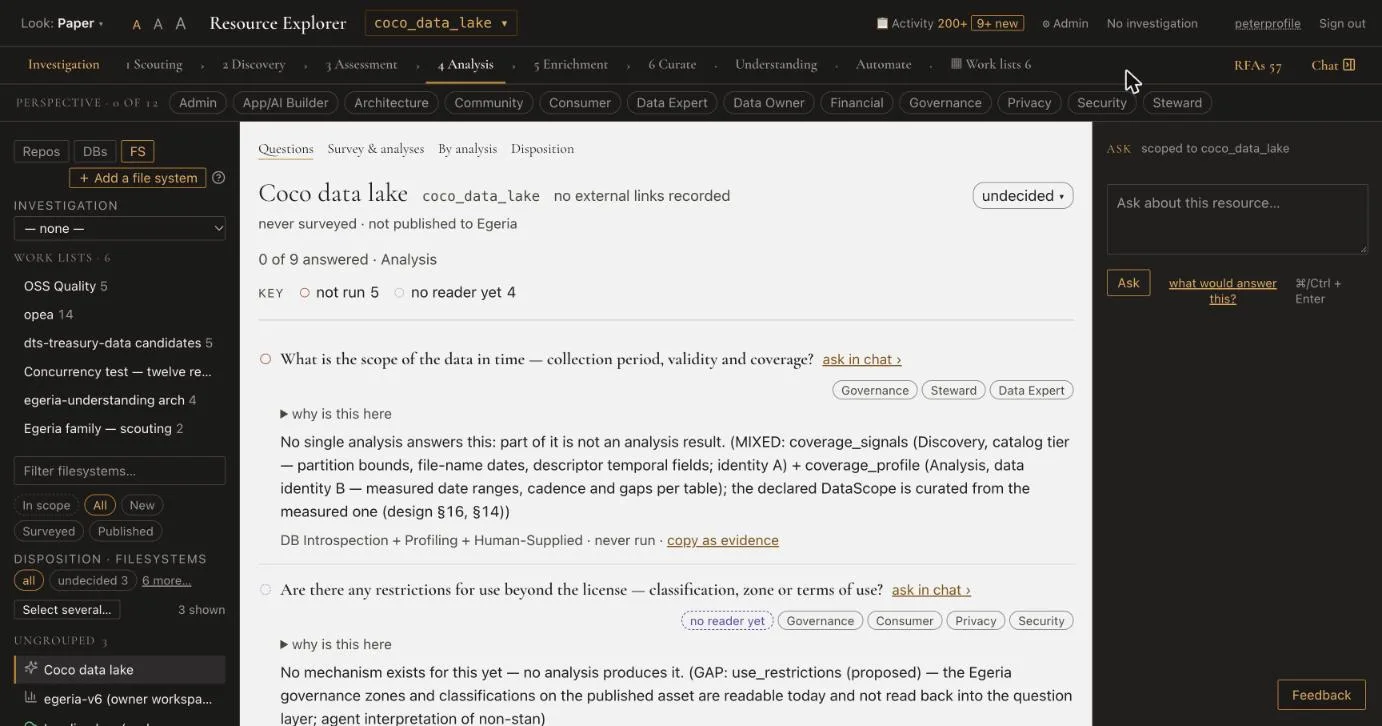
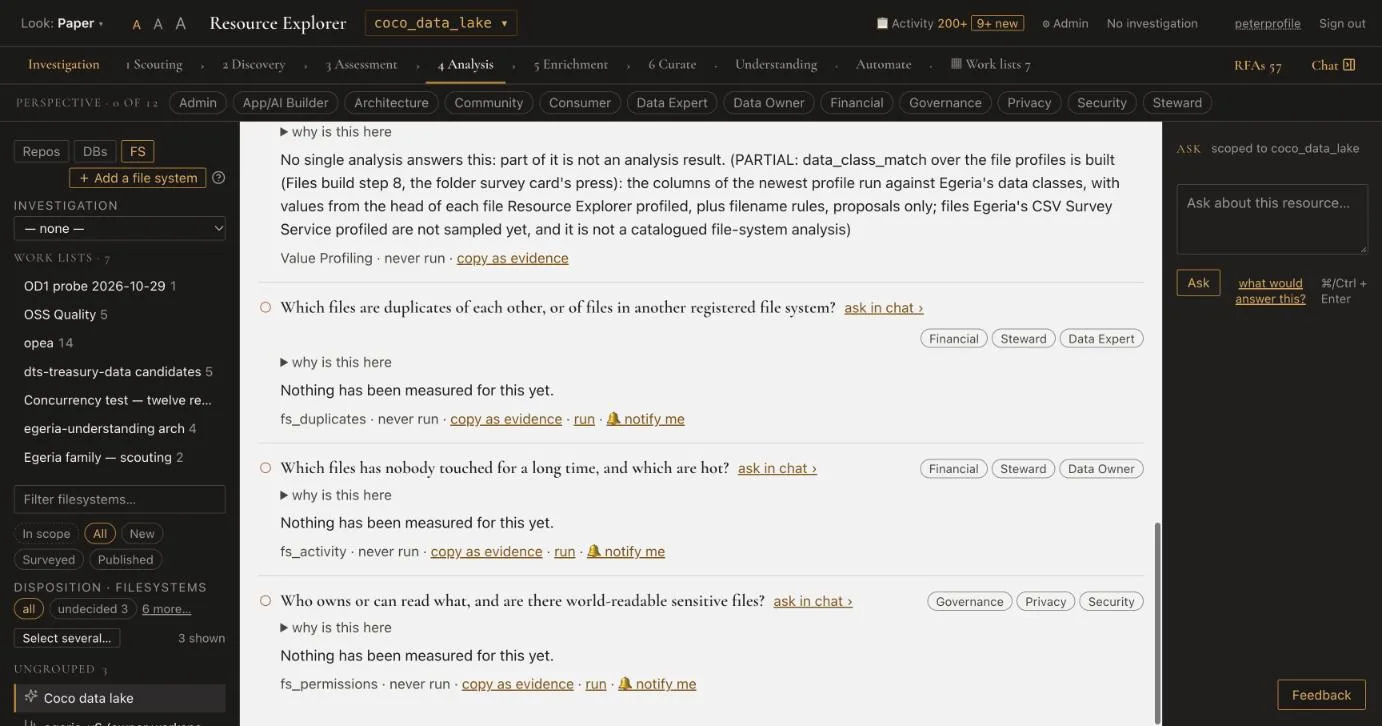
RE tutorial: apply the architect's nine corrections
Walk 3: correct address form (?type=db&resource=<slug>), the declared-measures
section with two new screenshots from the throwaway, chip glyph is the DOM's.
Walk 5: leg 0 date 2026-10-28 and F1 merged (#915), leg 7 walked and the
library rows Publish-disabled (F14), 'writes as' today, DOM glyphs, the
never-run image now shows the Q-0108 fs_permissions row. Walk 2: CVE mark
queued as a defect. Walk 6: OPEN DATA arrived with OD1 (#911).

diff --git a/packages/resource-explorer/docs/tutorial/05-add-your-own-analysis.md b/packages/resource-explorer/docs/tutorial/05-add-your-own-analysis.md
@@ -8,13 +8,13 @@ This walk follows two steps that were added without changing Resource Explorer's
 
 A library step is a package with a step manifest and a declaration: a result kind, measures (each with a unit and an as-of), absence sentences, chat extents, a confidence form and, optionally, an Egeria type. Installing the package registers it as a `trellis.analytics` entry point. The guide's section 7 has the whole table of what can be added.
 
-What the gate found about "no code change" (the architect's reading of `origin/main` at `7b50ba89` on 2026-10-29): no Resource Explorer code names either step. Two pieces of configuration do: a generated entry in `configdata/analysis_catalog.yaml` and a hand-written question row in `configdata/question_catalog.yaml` (Q-0107 and Q-0108). So "no code change" holds for code, and not yet for configuration.
+What the gate found about "no code change" (the architect's reading of `origin/main` at `7b50ba89` on 2026-10-28): no Resource Explorer code names either step. Two pieces of configuration do: a generated entry in `configdata/analysis_catalog.yaml` and a hand-written question row in `configdata/question_catalog.yaml` (Q-0107 and Q-0108). So "no code change" holds for code, and not yet for configuration. The fix, reading installed steps' manifests at read time so the generated entry is no longer committed (finding F1), is merged on `main` (#915). The Explorer these screens were read on was still running `afdac240`, so no screen in this walk shows it.
 
 ## 2. Where it shows up: Survey & analyses, "Derived from the walk"
 
-![The part of the Survey & analyses tab headed "DERIVED FROM THE WALK" for loading_bay. "kept here · sent to Egeria in the walk's own survey report when that walk is published". "File Activity · derived · 2026-10-29" with "● measured · 3 files modified within 7 days; 0 not modified for over 365 days (0 bytes)" and "○ not established · not measured · access times not recorded on this walk" plus an explanation. "File System Change · not run yet", "Duplicate Files · not run yet", "File System Layout Signals · not run yet". "File Permissions · derived · 2026-10-29" with "● measured · 1 owners, 1 groups; 134 of 134 files world-readable, 131 world-writable" and "○ nothing found · no world-readable file has a secret-looking name". Below, "EGERIA'S OWN SURVEYS" and "Survey Folder".](images/05-own-analysis/05-derived-from-the-walk.webp)
+![The part of the Survey & analyses tab headed "DERIVED FROM THE WALK" for loading_bay. "kept here · sent to Egeria in the walk's own survey report when that walk is published". "File Activity · derived · 2026-10-29" with "● measured · 3 files modified within 7 days; 0 not modified for over 365 days (0 bytes)" and "◌ not established · not measured · access times not recorded on this walk" plus an explanation. "File System Change · not run yet", "Duplicate Files · not run yet", "File System Layout Signals · not run yet". "File Permissions · derived · 2026-10-29" with "● measured · 1 owners, 1 groups; 134 of 134 files world-readable, 131 world-writable" and "○ nothing found · no world-readable file has a secret-looking name". Below, "EGERIA'S OWN SURVEYS" and "Survey Folder".](images/05-own-analysis/05-derived-from-the-walk.webp)
 
-*"File Activity · derived · 2026-10-29 · ● measured · 3 files modified within 7 days; 0 not modified for over 365 days (0 bytes)". "○ not established · not measured · access times not recorded on this walk". "File Permissions · derived · 2026-10-29 · ● measured · 1 owners, 1 groups; 134 of 134 files world-readable, 131 world-writable · ○ nothing found · no world-readable file has a secret-looking name". The block's first line: "kept here · sent to Egeria in the walk's own survey report when that walk is published".*
+*"File Activity · derived · 2026-10-29 · ● measured · 3 files modified within 7 days; 0 not modified for over 365 days (0 bytes)". "◌ not established · not measured · access times not recorded on this walk". "File Permissions · derived · 2026-10-29 · ● measured · 1 owners, 1 groups; 134 of 134 files world-readable, 131 world-writable · ○ nothing found · no world-readable file has a secret-looking name". The block's first line: "kept here · sent to Egeria in the walk's own survey report when that walk is published".*
 
 Read the three states side by side. A **measured** line carries a number and its basis. A **nothing found** line says it was measured and there was nothing. A **not established** line carries the step's own sentence for what could not be told: access times were not recorded on that walk, so which files were read cannot be told. Nothing here is a zero for something that was not measured.
 
@@ -22,11 +22,11 @@ The step's rows were stored when a run was pressed on 2026-10-29 (activity entri
 
 ## 3. A step that has never run
 
-![The Analysis stage's Questions tab for "Coco data lake" (coco_data_lake): "never surveyed · not published to Egeria", "0 of 9 answered · Analysis", key "○ not run 5 · ○ no reader yet 4". The first question's source line reads "DB Introspection + Profiling + Human-Supplied · never run · copy as evidence".](images/05-own-analysis/05-never-run-coco-data-lake.webp)
+![The foot of the Analysis stage's Questions tab for "Coco data lake" (coco_data_lake). Three rows each carry an empty circle and "Nothing has been measured for this yet.": "Which files are duplicates of each other, or of files in another registered file system?" (fs_duplicates · never run), "Which files has nobody touched for a long time, and which are hot?" (fs_activity · never run) and "Who owns or can read what, and are there world-readable sensitive files?" (fs_permissions · never run), each with "copy as evidence", "run" and "notify me". The page header reads "never surveyed · not published to Egeria", "0 of 9 answered · Analysis"; the key "○ not run 5 · ◌ no reader yet 4".](images/05-own-analysis/05-never-run-coco-data-lake.webp)
 
-*"0 of 9 answered · Analysis". The key reads "○ not run 5 · ○ no reader yet 4". The source line reads "never run".*
+*The page header reads "never surveyed · not published to Egeria" and "0 of 9 answered · Analysis". The key reads "○ not run 5 · ◌ no reader yet 4". The Q-0108 row reads "Nothing has been measured for this yet." and "fs_permissions · never run".*
 
-On a file system where the step has not run, the screen says "never run", not zero. On 2026-10-29 the architect read the Questions tab row for Q-0108 on `coco_data_lake` as "Nothing has been measured for this yet. fs_permissions · never run" (on `9d40eab4`; not re-read on `afdac240`). The step's own "not measured" sentence is not used for a step that never ran; the screen uses Resource Explorer's generic words instead (finding F7, closed as "RE's state" on 2026-10-29).
+On a file system where the step has not run, the screen says "never run", not zero. The Q-0108 row on `coco_data_lake` reads "Nothing has been measured for this yet." with "fs_permissions · never run" (read on `afdac240`; the architect read the same row on `9d40eab4`). The step's own "not measured" sentence is not used for a step that never ran; the screen uses Resource Explorer's generic words instead (finding F7, closed as "RE's state" on 2026-10-29).
 
 ## 4. Curate has no row for the step
 
@@ -34,7 +34,7 @@ On a file system where the step has not run, the screen says "never run", not ze
 
 *"Nothing to review for file systems yet. Group, tags, ratings and notes above and below apply." "✓ root folder attached · read back 2026-10-25 23:45". "attaches the root folder only".*
 
-For a database a library step has a row in the publish table with "writes as". A file system has no publish table, so the two steps have no row to publish from; the reason the measures wait is the one on the Survey tab ("sent to Egeria in the walk's own survey report when that walk is published"). **Publish** here attaches the root folder only; this walk did not press it.
+For a database a library step has a row in the publish table with "writes as". Today that row reads "generic measure · no native type declared" and its Publish is disabled (walk 3, section 4; findings F11 and F14); the fix is in build. A file system has no publish table, so the two steps have no row to publish from; the reason the measures wait is the one on the Survey tab ("sent to Egeria in the walk's own survey report when that walk is published"). **Publish** here attaches the root folder only; this walk did not press it.
 
 ## 5. Chat
 
@@ -47,6 +47,6 @@ Each item below was read as missing on the gate's screens. Dates are the gate's 
 - **The Questions tab's own figures for a library step** (2026-10-29, on `9d40eab4`): the row reads "fs_activity has no written summary — the figures above are the raw measures." with no figures above it, and "the numbers behind this ›" answers "Unknown analysis". Not re-read on `afdac240`.
 - **A publish row on Curate for a file system's steps, with the reason they wait** (2026-10-29, read above on `afdac240`).
 - **"writes as" on a file system** (2026-10-29): it exists on a database's publish table only.
-- **Publishing a library step on a database** (leg 7 of the gate): not walked. The step `hub_tables` is a proposal and the publish table excludes proposals by design; the owner's choice of a step is pending.
+- **A library step's own row publishing from a database's table** (2026-10-29): leg 7 of the gate was walked on the throwaway. The library rows are Publish-disabled (F14; the fix is in build). The mechanism was proven on RE's own measure instead: commit `0136c584`, annotation `d3065d8d` read back by its id (4 tables, as of 2026-10-25, ResourceMeasureAnnotation, createdBy peterprofile). A library step's own row: not yet.
 - **A step's start-up line that names it** (2026-10-29): the line counts the installed library steps ("4 installed, none missing") and names none.
 - **Changing a step's declared Egeria type, read on a screen** (2026-10-29): the rows changed with no Resource Explorer commit, but no file-system screen names the annotation type.

diff --git a/packages/resource-explorer/docs/tutorial/03-catalog-a-database.md b/packages/resource-explorer/docs/tutorial/03-catalog-a-database.md
@@ -2,11 +2,11 @@
 
 *Screens read on 2026-10-29, Explorer on port 8813, `origin/main` at `afdac240`. Resource: `coco_pharma @ local-docker` (`localhost_docker_coco_pharma`).*
 
-Open the database from the **DBs** list in the sidebar (use the filter box, then the row). Open it through the list rather than a saved address: on this build a direct address can show "not published" for a database that Egeria holds.
+Open the database from the **DBs** list in the sidebar (use the filter box, then the row), or by address in the form `?type=db&resource=<slug>`. Use `type=db`: `?type=database` is not an address the Explorer knows, and it paints the page of the wrong kind of resource.
 
 ## 1. Describe and publish: header, credentials, findable
 
-![The Curate stage, "Describe and publish" tab, for coco_pharma @ local-docker. The tab row reads "Describe and publish · Contents ✓ 4 chosen · ○ 25 undecided · Structure ○ none yet · Questions · Survey & analyses · By analysis · Disposition · Schema Inventory · Table preview". Under the title: "surveyed 5d ago · local survey · published to Egeria", "RE's own survey 10-24: connected as egeria_admin, sees 30 of 30 schemas, SELECT on 266 of 266 relations", and "credential change date not recorded · Change credentials…". Then the FINDABLE section with "RE group egeria-databases" and the tag "coco", and WHAT PEOPLE SAY with one rating.](images/03-database/03-curate-describe-and-publish.webp)
+![The Curate stage, "Describe and publish" tab, for coco_pharma @ local-docker. The tab row reads "Describe and publish · Contents ✓ 4 chosen · ◌ 25 undecided · Structure ○ none yet · Questions · Survey & analyses · By analysis · Disposition · Schema Inventory · Table preview". Under the title: "surveyed 5d ago · local survey · published to Egeria", "RE's own survey 10-24: connected as egeria_admin, sees 30 of 30 schemas, SELECT on 266 of 266 relations", and "credential change date not recorded · Change credentials…". Then the FINDABLE section with "RE group egeria-databases" and the tag "coco", and WHAT PEOPLE SAY with one rating.](images/03-database/03-curate-describe-and-publish.webp)
 
 *"surveyed 5d ago · local survey · published to Egeria". "RE's own survey 10-24: connected as egeria_admin, sees 30 of 30 schemas, SELECT on 266 of 266 relations". Beside it: "credential change date not recorded · Change credentials…".*
 
@@ -14,11 +14,11 @@ The line that starts "RE's own survey" says what the connecting account can see.
 
 ## 2. Contents: what gets published, and the chips
 
-![The Contents tab for coco_pharma. "asset c990f349-36de-4489-9338-7974dec54cb0 copy", then "What gets published", the sentence "Database element c990f349 in Egeria · published 10-24 00:45 · zones: none · everyone visible · 4 schemas chosen · 4 schemas attached · cataloguer connector's last refresh 10-24 00:45 (the connector's, not a schema's)", and three chips: "published by RE 2 ✓", "attached 4 schemas ✓" and "cataloged by Egeria 0 schemas ○ not checked since 00:54". Below, "Your scope: 4 of 30 schemas known to RE · declared by erinoverview 10-05 · Egeria's latest survey covers 4 schemas, 55 tables".](images/03-database/03-curate-database-chips.webp)
+![The Contents tab for coco_pharma. "asset c990f349-36de-4489-9338-7974dec54cb0 copy", then "What gets published", the sentence "Database element c990f349 in Egeria · published 10-24 00:45 · zones: none · everyone visible · 4 schemas chosen · 4 schemas attached · cataloguer connector's last refresh 10-24 00:45 (the connector's, not a schema's)", and three chips: "published by RE 2 ✓", "attached 4 schemas ✓" and "cataloged by Egeria 0 schemas ◌ not checked since 00:54". Below, "Your scope: 4 of 30 schemas known to RE · declared by erinoverview 10-05 · Egeria's latest survey covers 4 schemas, 55 tables".](images/03-database/03-curate-database-chips.webp)
 
-*The chips read "published by RE 2 ✓", "attached 4 schemas ✓" and "cataloged by Egeria 0 schemas ○ not checked since 00:54".*
+*The chips read "published by RE 2 ✓", "attached 4 schemas ✓" and "cataloged by Egeria 0 schemas ◌ not checked since 00:54".*
 
-A chip is a statement about the last time RE read Egeria, not about Egeria now. The third chip reads "not checked since 00:54", so its "0 schemas" is what RE saw then. The sentence above the chips and the chips both give counts for the same facts ("4 schemas chosen · 4 schemas attached" and "attached 4 schemas ✓"); today they agree. The mark on the cue is ○ on this screen; the user guide writes ◌ for that cue. The sentence spells "cataloguer", while the chip says "cataloged".
+A chip is a statement about the last time RE read Egeria, not about Egeria now. The third chip reads "not checked since 00:54", so its "0 schemas" is what RE saw then. The sentence above the chips and the chips both give counts for the same facts ("4 schemas chosen · 4 schemas attached" and "attached 4 schemas ✓"); today they agree. The sentence above the chips spells "cataloguer", while the chip says "cataloged".
 
 ## 3. Publish to Egeria
 
@@ -28,4 +28,18 @@ A chip is a statement about the last time RE read Egeria, not about Egeria now. 
 
 The publish table, the **Publish** press and what it sends are described in [the guide, section 6](../user-guide.md#6-publishing-to-egeria). This walk did not press **Publish**, **Refresh** or **Ask about this →**, and shows no press result.
 
-**Not built yet in this walk:** nothing in the surfaces shown; see [the guide's list](../user-guide.md#10-not-built-yet).
+## 4. Declared measures: what publishes and what does not
+
+On a database where a library step has run, the Describe tab carries a "PUBLISH · DECLARED MEASURES" table. This one is the throwaway `laz_local_re_reproof_postreset_1025`; its table takes about 40 seconds to answer, so wait for it.
+
+![The declared-measures table on the throwaway, scrolled to the right. The row "never_analyzed_tables · tables", 4 tables, 2026-10-25 01:36, measured, resource, ResourceMeasureAnnotation, has a Publish button and a "Keep in RE" button, the words "will publish · peterprofile · 2026-10-29 14:32 · sent by every commit until Keep in RE", and a green "✓ published · read back 2026-10-29 14:34". Rows above and below read "not chosen · stays in RE" and "○ local · not published".](images/03-database/03-declared-measures-re-row.webp)
+
+*RE's own row, never_analyzed_tables: "will publish · peterprofile · 2026-10-29 14:32 · sent by every commit until Keep in RE" and "✓ published · read back 2026-10-29 14:34". The other rows read "not chosen · stays in RE" and "○ local · not published".*
+
+![The two library rows of the same table. Both read "—", then "one value per member, not one for the resource · see tables_by_staleness, summary", "no as-of", "measured", "member", "generic measure · no native type declared". Each has a greyed "Publish" button, a "Keep in RE" button, "not chosen · stays in RE", "nothing to publish · one value per member, not one for the resource · see tables_by_staleness, summary" and "○ local · not published". Under the table, "PUBLISH TO EGERIA ✓ committed".](images/03-database/03-declared-measures-library-rows.webp)
+
+*The two "Table Statistics Freshness" library rows, statistics_freshness and statistics_freshness_summary: "—", "no as-of", "generic measure · no native type declared", Publish disabled, "nothing to publish · one value per member, not one for the resource · see tables_by_staleness, summary".*
+
+Read the two together. RE's own measure has one value for the resource, an as-of, a native type (ResourceMeasureAnnotation) and an enabled Publish; it was published and read back. The two library rows have no single value ("one value per member"), no as-of, no native type declared, and Publish is disabled with the reason beside it. This walk did not press any button on this table.
+
+**Not built yet in this walk:** a library step's own row publishing from this table (see walk 5).

diff --git a/packages/resource-explorer/docs/tutorial/02-judge-a-resource.md b/packages/resource-explorer/docs/tutorial/02-judge-a-resource.md
@@ -24,11 +24,11 @@ Wait for a pane to finish before you read it. While it is still loading the coun
 
 ## 3. Analysis: the questions and the marks
 
-![The Analysis stage's Questions tab for docling. "16 of 20 answered · Analysis". The key reads "✓ answered 16 · ○ no reader yet 4". The first question is "Are there outstanding CVEs?" answered "not checked: 0 of 65 declared dependenc(ies) could be queried, so no CVE result exists", with the source line "cve_scan · run 27d ago".](images/02-judge/02-analysis-questions-docling.webp)
+![The Analysis stage's Questions tab for docling. "16 of 20 answered · Analysis". The key reads "✓ answered 16 · ◌ no reader yet 4". The first question is "Are there outstanding CVEs?" answered "not checked: 0 of 65 declared dependenc(ies) could be queried, so no CVE result exists", with the source line "cve_scan · run 27d ago".](images/02-judge/02-analysis-questions-docling.webp)
 
-*"16 of 20 answered · Analysis". The key reads "✓ answered 16 · ○ no reader yet 4".*
+*"16 of 20 answered · Analysis". The key reads "✓ answered 16 · ◌ no reader yet 4".*
 
-Read the marks together with the words beside them. The row "Are there outstanding CVEs?" carries ✓, and its answer says "not checked: 0 of 65 declared dependenc(ies) could be queried, so no CVE result exists". The words are the answer; the mark says the question was answered, and here the answer is that nothing could be checked. Do not read it as "no CVEs".
+Read the marks together with the words beside them. The row "Are there outstanding CVEs?" carries ✓, and its answer says "not checked: 0 of 65 declared dependenc(ies) could be queried, so no CVE result exists". The words are the answer; the mark says the question was answered, and here the answer is that nothing could be checked. Do not read it as "no CVEs". The mark on a not-checked answer is queued as a defect (status-words round 9, item 6).
 
 The mark table and the absence words are in [the guide, section 2](../user-guide.md#2-the-words-and-marks).
 

diff --git a/packages/resource-explorer/docs/tutorial/04-a-file-system.md b/packages/resource-explorer/docs/tutorial/04-a-file-system.md
@@ -6,9 +6,9 @@ Open it from the **FS** list in the sidebar. A file system is registered with a 
 
 ## 1. The questions
 
-![The Scouting Questions tab for "Loading bay (exchange-quickstart)", loading_bay. Header: "surveyed 4d ago · published to Egeria". "0 of 5 answered · Scouting". The key reads "○ not run 2 · ⚠ needs you 2 · ○ no reader yet 1". The first question, "What is this resource, and what is it for?", carries "no reader yet" and says it is "Answerable from a field on the resource, but the catalog records which field only in prose, so it cannot be read automatically yet."](images/04-filesystem/04-loading-bay-questions.webp)
+![The Scouting Questions tab for "Loading bay (exchange-quickstart)", loading_bay. Header: "surveyed 4d ago · published to Egeria". "0 of 5 answered · Scouting". The key reads "○ not run 2 · ⚠ needs you 2 · ◌ no reader yet 1". The first question, "What is this resource, and what is it for?", carries "no reader yet" and says it is "Answerable from a field on the resource, but the catalog records which field only in prose, so it cannot be read automatically yet."](images/04-filesystem/04-loading-bay-questions.webp)
 
-*"0 of 5 answered · Scouting". The key reads "○ not run 2 · ⚠ needs you 2 · ○ no reader yet 1". The second question reads "Human-supplied: who owns this resource and who administers it are recorded in Enrichment; no survey reads either for a file system." with the button "Answer this →".*
+*"0 of 5 answered · Scouting". The key reads "○ not run 2 · ⚠ needs you 2 · ◌ no reader yet 1". The second question reads "Human-supplied: who owns this resource and who administers it are recorded in Enrichment; no survey reads either for a file system." with the button "Answer this →".*
 
 ## 2. Reach: who surveyed it, and what RE walked
 

diff --git a/packages/resource-explorer/docs/tutorial/06-question-purpose-setting.md b/packages/resource-explorer/docs/tutorial/06-question-purpose-setting.md
@@ -6,7 +6,7 @@ Three things a person can change without touching Resource Explorer's code: a qu
 
 ## 1. Questions: Admin › Configure › Question Catalog
 
-Open **⚙ Admin**. The panel reads "System configuration — not something a user does to curate a specific resource, so it lives here rather than under one of the eight intents." Its menus are **CONFIGURE**, **RECONCILE**, **OBSERVE** and **OPEN DATA**. Choose **❓ Question Catalog** under Configure.
+Open **⚙ Admin**. The panel reads "System configuration — not something a user does to curate a specific resource, so it lives here rather than under one of the eight intents." Its menus are **CONFIGURE**, **RECONCILE**, **OBSERVE** and **OPEN DATA**. The OPEN DATA menu arrived with OD1 on 2026-10-29 (#911). Choose **❓ Question Catalog** under Configure.
 
 ![The Admin panel on the Question Catalog. The heading "Question Catalog" with a "+ Add question" button. The text reads "Every question authored in docs/dr-egeria/resource_questions.csv — the source of truth for both Scouting's Questions checklist and the Question elements published to Egeria. Append-only (project owner decision, 2026-09-20): add a new question or retire an old one; a question's own text is never reworded in place, since past survey answers refer to it exactly as it was asked. Retired questions stay listed, dimmed, never hidden." A search box "Search question text…", STAGE chips and PERSPECTIVE (FILTER) chips, and "52 / 52 question(s)".](images/06-question-purpose-setting/06-admin-question-catalog.webp)
 
